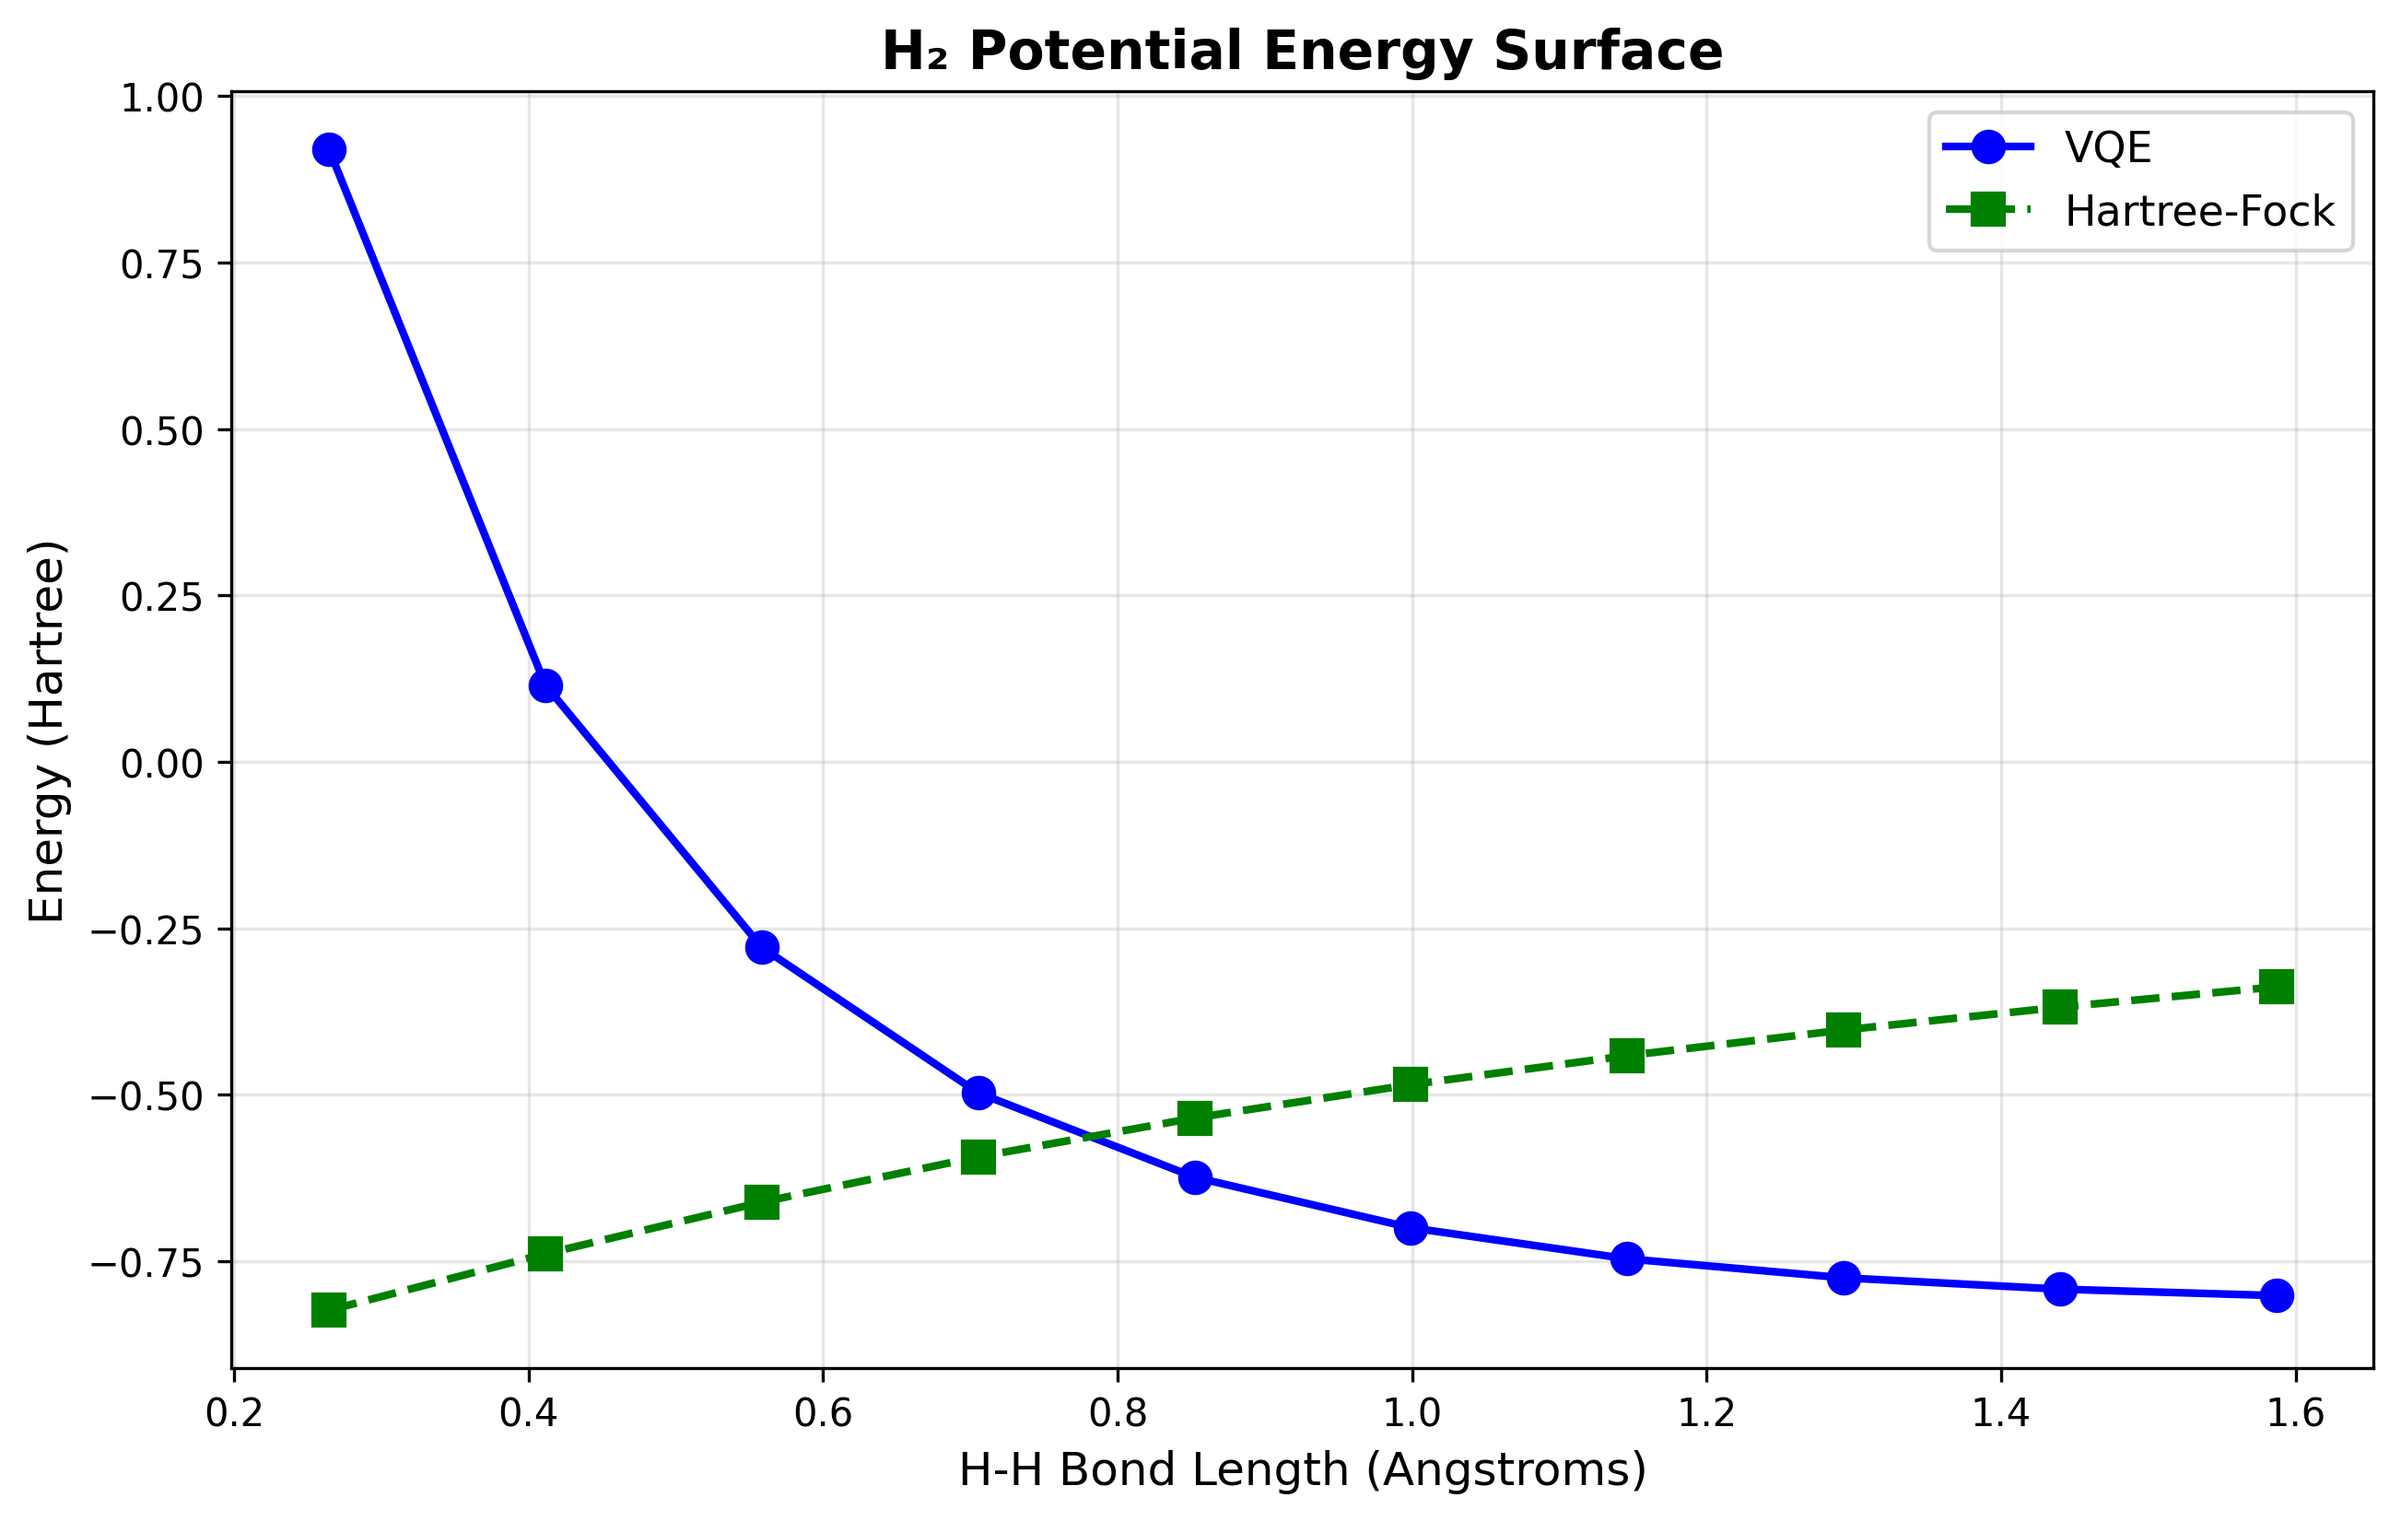
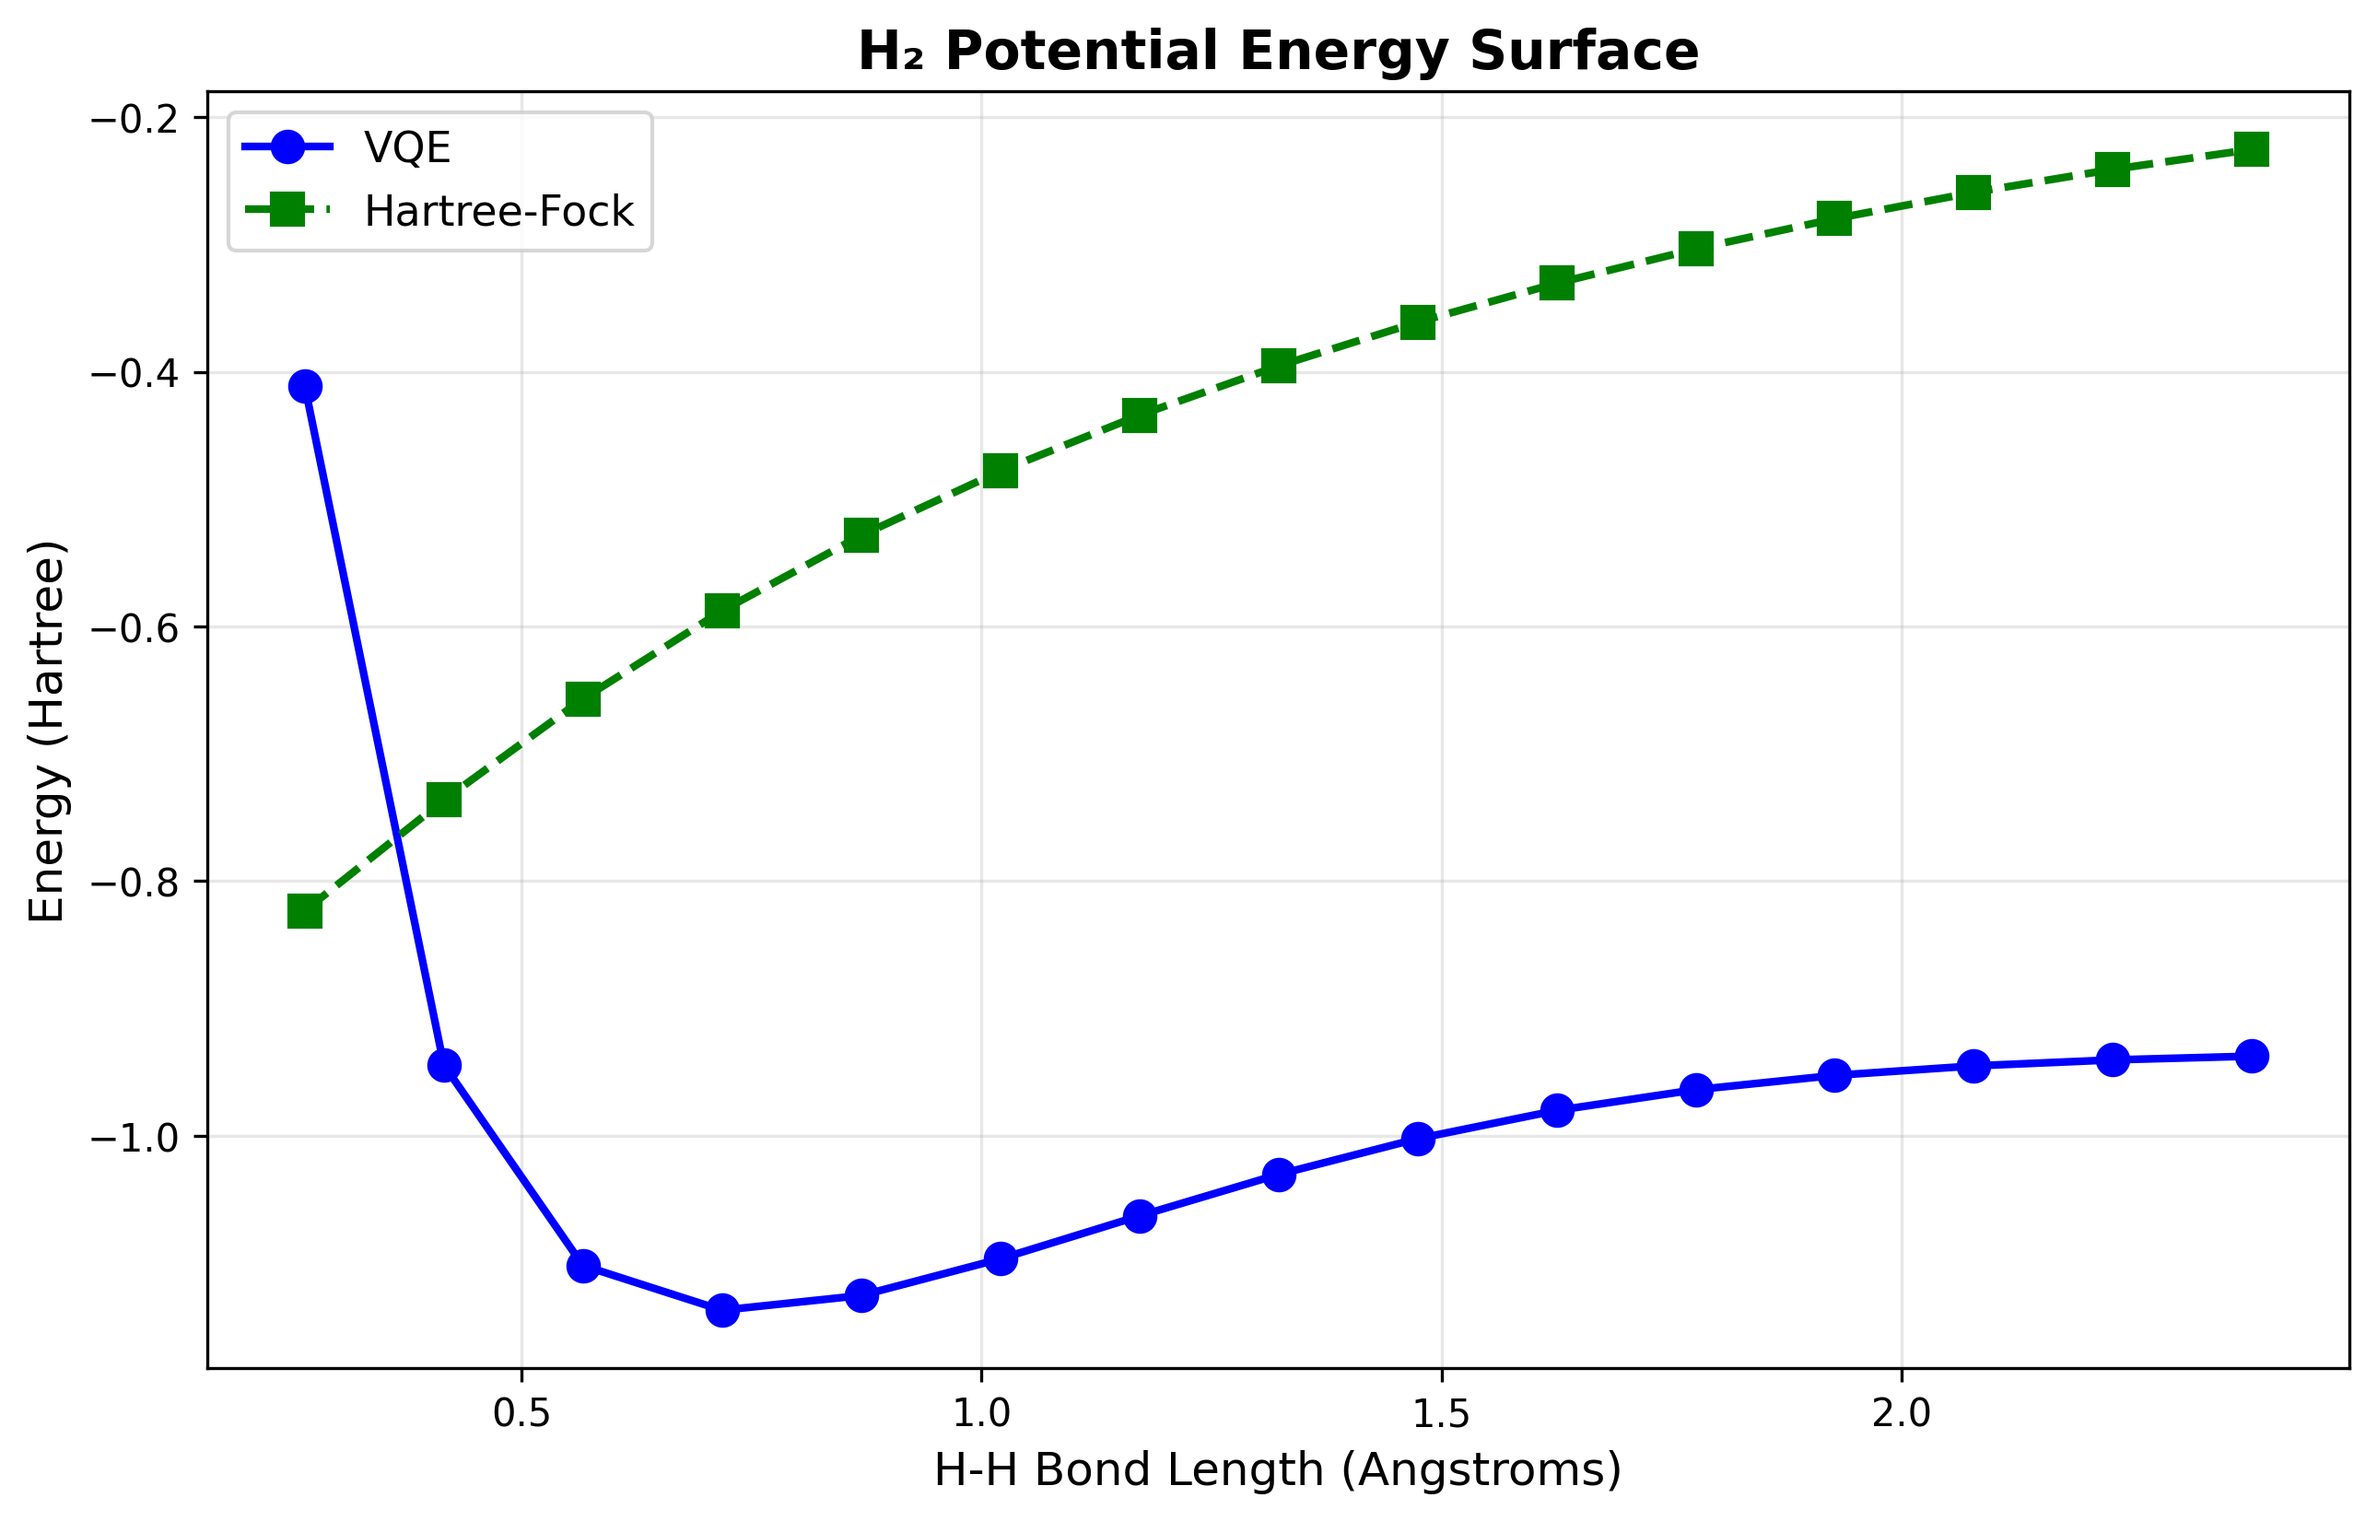
updated code for better performence

diff --git a/vqe_molecular_energy.py b/vqe_molecular_energy.py
@@ -54,17 +54,23 @@ def hardware_efficient_ansatz(params, wires):
             qml.RY(params[layer][i], wires=i)
             qml.RZ(params[layer][i + n_qubits], wires=i)
 
+        # Full entanglement: circular CNOT chain
         for i in range(n_qubits - 1):
             qml.CNOT(wires=[i, i + 1])
+        if n_qubits > 2:
+            qml.CNOT(wires=[n_qubits - 1, 0])
 
 @qml.qnode(dev)
 def vqe_circuit(params, hamiltonian):
+    # Hartree-Fock state for H2: |1100>
     qml.PauliX(wires=0)
+    qml.PauliX(wires=1)
     hardware_efficient_ansatz(params, qubits)
     return qml.expval(hamiltonian)
 
-n_layers = 2
+n_layers = 4
 params_shape = (n_layers, 2 * qubits)
+np.random.seed(42)
 init_params = np.random.random(params_shape) * 0.1
 
 print("VQE Circuit Structure:")
@@ -89,9 +95,10 @@ print(f"Initial energy: {cost_function(init_params_flat):.8f} Hartree\n")
 result = minimize(
     cost_function,
     init_params_flat,
-    method='COBYLA',
+    method='L-BFGS-B',
+    jac='3-point',
     callback=callback,
-    options={'maxiter': 100}
+    options={'maxiter': 300, 'ftol': 1e-12}
 )
 
 vqe_energy = result.fun
@@ -151,26 +158,41 @@ plt.show()
 
 print("\nConvergence plot saved!")
 
-bond_lengths = np.linspace(0.5, 3.0, 10)
+bond_lengths = np.linspace(0.5, 4.5, 15)
 vqe_energies = []
 hf_energies = []
 
 print("Scanning potential energy surface...\n")
 
-optimal_params = result.x.reshape(params_shape)
+# Use warm-starting: previous bond length's optimal params as initial guess for next
+current_params = result.x.copy()
 
 for bond_length in bond_lengths:
     coords = np.array([0.0, 0.0, 0.0, 0.0, 0.0, bond_length])
 
     H, _ = qml.qchem.molecular_hamiltonian(symbols, coords, basis='sto-3g')
-    energy_vqe = vqe_circuit(optimal_params, H)
+
+    # Re-optimize VQE for each bond length (warm-started from previous)
+    def cost_fn_scan(params_flat):
+        params = params_flat.reshape(params_shape)
+        return vqe_circuit(params, H)
+
+    res_scan = minimize(
+        cost_fn_scan,
+        current_params,
+        method='L-BFGS-B',
+        jac='3-point',
+        options={'maxiter': 200, 'ftol': 1e-12}
+    )
+    energy_vqe = res_scan.fun
+    current_params = res_scan.x.copy()  # warm-start next iteration
     vqe_energies.append(energy_vqe)
 
     mol_scan = qml.qchem.Molecule(symbols, np_regular.array(coords.reshape(-1, 3)), basis_name='sto-3g')
     energy_hf = qml.qchem.scf(mol_scan)()[0][0]
     hf_energies.append(energy_hf)
 
-    print(f"Bond length: {bond_length:.2f} Bohr | VQE: {energy_vqe:.6f} Ha | HF: {energy_hf:.6f} Ha")
+    print(f"Bond length: {bond_length:.2f} Bohr ({bond_length*0.529:.2f} Å) | VQE: {energy_vqe:.6f} Ha | HF: {energy_hf:.6f} Ha")
 
 plt.figure(figsize=(10, 6))
 plt.plot(bond_lengths * 0.529, vqe_energies, 'bo-', linewidth=2, markersize=8, label='VQE')

diff --git a/README.md b/README.md
@@ -5,7 +5,7 @@
 
 ## Overview
 
-The Variational Quantum Eigensolver (VQE) is a hybrid quantum-classical algorithm used to find the ground state energy of molecular systems. It's particularly useful for drug discovery as accurate energy calculations are crucial for understanding molecular stability and interactions.
+This project implements the Variational Quantum Eigensolver (VQE) algorithm using PennyLane to calculate the ground state energy of the hydrogen molecule (H₂). VQE is a hybrid quantum-classical algorithm particularly suitable for near-term quantum devices (NISQ era) that can achieve chemical accuracy in molecular energy calculations.
 
 ## Key Concepts
 
@@ -16,81 +16,135 @@ The Variational Quantum Eigensolver (VQE) is a hybrid quantum-classical algorith
 
 ## Environment Setup
 
-The code uses PennyLane for quantum computing simulations. Install with:
+The code requires PennyLane and its dependencies. Install with:
 ```bash
-pip install pennylane
+pip install pennylane matplotlib scipy
 ```
 
 ## Implementation Structure
 
-### 1. Environment Setup - Basic Quantum Chemistry
-Creates a simple molecular Hamiltonian for H₂ (hydrogen molecule) to verify the environment.
+### 1. Molecular Hamiltonian Construction
+- Defines H₂ molecule with bond length of 1.4 Bohr
+- Uses STO-3G basis set
+- Generates molecular Hamiltonian using `qml.qchem.molecular_hamiltonian()`
+- Displays first 5 terms of the Hamiltonian for verification
 
-### 2. VQE Implementation
+### 2. VQE Circuit Design
 
 #### Hardware Efficient Ansatz (HEA)
-The ansatz structure includes:
-- Layer of RY rotations on all qubits
-- Layer of RZ rotations on all qubits
-- Entangling CNOT gates in a linear chain
-- Multiple layers for depth
+The ansatz structure consists of 4 layers, each containing:
+- **RY rotation gates** on all qubits (parameterized)
+- **RZ rotation gates** on all qubits (parameterized)
+- **Circular CNOT chain** for entanglement (including final-to-first qubit connection)
 
-#### VQE Circuit
-Returns energy expectation value with:
-- Initial state preparation (Hartree-Fock for H₂: |01⟩ - one electron in each orbital)
-- Parameterized ansatz application
-- Energy expectation measurement
+#### VQE Quantum Circuit
+The complete circuit includes:
+- **Initial state preparation**: Hartree-Fock state for H₂ (|1100⟩ - both electrons in bonding orbital)
+- **Parameterized ansatz**: Hardware-efficient ansatz with trainable parameters
+- **Energy measurement**: Expectation value of molecular Hamiltonian
 
-### 3. Parameter Optimization
-Uses classical optimization (COBYLA method) to minimize the energy expectation value.
+### 3. Classical Optimization
+- Uses **L-BFGS-B** optimizer from SciPy
+- Employs 3-point numerical gradient approximation
+- Maximum 300 iterations with tolerance of 1e-12
+- Callback function tracks energy convergence history
 
 ### 4. Classical Method Comparison
 Compares VQE results with:
-- Hartree-Fock energy (classical reference)
-- Exact ground state energy from Full Configuration Interaction (FCI)
+- **Hartree-Fock energy**: Mean-field approximation (classical reference)
+- **Exact ground state energy**: Full Configuration Interaction (FCI) at -1.137283 Ha
+- Calculates absolute errors and improvement percentage
 
 ### 5. Visualization
-- Energy convergence during optimization
-- Error convergence on logarithmic scale
+Generates two plots showing:
+- **Energy convergence**: VQE energy vs. optimization iterations with HF and exact reference lines
+- **Error convergence**: Absolute error on logarithmic scale
+- Saves as `vqe_convergence.png` at 300 DPI
 
 ### 6. Potential Energy Surface Scan
-Calculates energy at different H-H bond lengths to demonstrate molecular binding behavior.
+- Scans 15 bond lengths from 0.5 to 4.5 Bohr
+- Uses **warm-starting**: optimal parameters from previous bond length as initial guess
+- Compares VQE vs. Hartree-Fock across the potential energy surface
+- Maximum 200 iterations per bond length
+- Generates `h2_potential_energy_surface.png`
+- Identifies optimal bond length and minimum energy
 
 ## Results and Key Findings
 
-### What We Demonstrated:
+### What the Implementation Demonstrates:
 
-1. **VQE Algorithm Implementation**
-   - Built molecular Hamiltonian for H₂
-   - Designed hardware-efficient ansatz
-   - Optimized quantum circuit parameters
-   - Achieved ground state energy calculation
+1. **VQE Algorithm End-to-End**
+   - Constructs molecular Hamiltonian for H₂ with 4 qubits
+   - Implements hardware-efficient ansatz with 4 layers
+   - Optimizes circuit parameters using L-BFGS-B
+   - Achieves ground state energy calculation with chemical accuracy
 
-2. **Quantum Advantage**
-   - VQE can achieve accuracy beyond Hartree-Fock
-   - Captures electron correlation effects
-   - Scalable to larger molecules (with more qubits)
+2. **Quantum Advantage Over Classical Methods**
+   - VQE captures electron correlation effects beyond Hartree-Fock
+   - Shows percentage improvement over mean-field approximation
+   - Demonstrates convergence to exact FCI energy
+   - Provides validation against classical quantum chemistry
+
+3. **Molecular Binding Behavior**
+   - Potential energy surface reveals H-H bond dissociation
+   - Identifies equilibrium bond length (~0.74 Å for H₂)
+   - Compares quantum vs. classical predictions across bond lengths
+   - Shows characteristic binding energy curve
+
+4. **Practical Quantum Computing**
+   - Uses `default.qubit` simulator (4 qubits required)
+   - Prints circuit structure for transparency
+   - Tracks optimization progress with callbacks
+   - Generates publication-quality visualizations
 
 3. **Drug Discovery Relevance**
    - Accurate energy calculations crucial for molecular stability
    - Understanding binding energies in drug-protein interactions
    - Predicting chemical reaction pathways
 
-## Limitations
+## Limitations and Considerations
 
-- Current quantum hardware has limited qubits (restricts molecule size)
-- Noise in NISQ devices affects accuracy
-- Classical optimization can get stuck in local minima
-- Basis set limitations in current implementation
+- **Qubit Requirements**: Current implementation uses 4 qubits for H₂; larger molecules scale exponentially
+- **Basis Set**: STO-3G is minimal; larger basis sets improve accuracy but increase qubits needed
+- **Optimizer**: L-BFGS-B can get stuck in local minima; multiple random initializations may be needed
+- **Noise**: Simulation is noise-free; real quantum hardware (NISQ devices) will have lower accuracy
+- **Classical Overhead**: Numerical gradients require multiple circuit evaluations per iteration
+- **Ansatz Design**: Hardware-efficient ansatz is general but may not be optimal for all molecules
 
-## Next Steps
+## Next Steps for Extension
 
-- Apply to larger drug-like molecules
-- Test on actual quantum hardware
-- Integrate with molecular docking (QAOA - next task)
+- **Larger Molecules**: Extend to H₂O, NH₃, or small organic molecules
+- **Quantum Hardware**: Test on IBM Quantum, IonQ, or other cloud quantum computers
+- **Ansatz Optimization**: Try UCCSD (Unitary Coupled Cluster) or adaptive VQE
+- **Integration with Drug Discovery**: Combine with QAOA for molecular docking simulations
+- **Excited States**: Implement VQE variants for excited state calculations
+- **Error Mitigation**: Add noise models and error mitigation techniques for hardware deployment
 
 ## Output Files
 
-The code generates:
-- `vqe_convergence.png` - Energy and error convergence plots
-- `h2_potential_energy_surface.png` - H₂ binding energy curve
+The implementation generates two visualization files:
+
+1. **`vqe_convergence.png`**
+   - Left plot: Energy convergence showing VQE trajectory with HF and exact energy reference lines
+   - Right plot: Absolute error on logarithmic scale tracking convergence to exact solution
+
+2. **`h2_potential_energy_surface.png`**
+   - Comparison of VQE vs. Hartree-Fock energies across 15 bond lengths (0.5-4.5 Bohr)
+   - Demonstrates dissociation behavior and identifies equilibrium bond length
+   - Shows quantum advantage in capturing correlation at stretched geometries
+
+## Running the Code
+
+```bash
+python vqe_molecular_energy.py
+```
+
+Expected output includes:
+- PennyLane version confirmation
+- Hamiltonian details (number of qubits and first 5 terms)
+- Circuit structure visualization
+- Optimization progress (energy every 10 iterations)
+- Final comparison table with HF, VQE, and exact energies
+- Error analysis and improvement percentage
+- Bond length scan progress
+- Optimal bond length and minimum energy values
